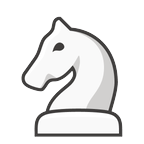
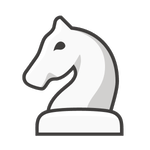
Replace cartoon piece images with the new 12-piece PNG set
- All 12 pieces (wK wQ wR wB wN wP bK bQ bR bB bN bP) replaced with the new
  transparent artwork (150x150 WebP, 3-8 KB each, same file names).
- Bump piece image version (?v=2 -> 3) so Telegram refetches instead of
  showing cached old pieces.

Claude-Session: https://claude.ai/code/session_016KRgdZLYNW8N92fxzrzDv4

Changed region(s): [[0.1389, 0.0833, 0.8611, 0.9722], [0.3333, 0.25, 0.4722, 0.3611]]

diff --git a/public/js/pieces.js b/public/js/pieces.js
@@ -3,7 +3,7 @@
 export const PIECE_SETS = ['cartoon', 'outline', 'classic', 'neo', 'staunton', 'studio'];
 export const DEFAULT_PIECE_SET = 'cartoon';
 const IMAGE_SETS = { cartoon: '/img/pieces/cartoon' };
-const IMAGE_V = '2';
+const IMAGE_V = '3';
 export const BOARD_THEMES = ['classic', 'green', 'wood', 'blue', 'brown', 'studio'];
 export const BOARD_SWATCH = {
   classic: { lt: '#b9c4d6', dk: '#5f7391' },
